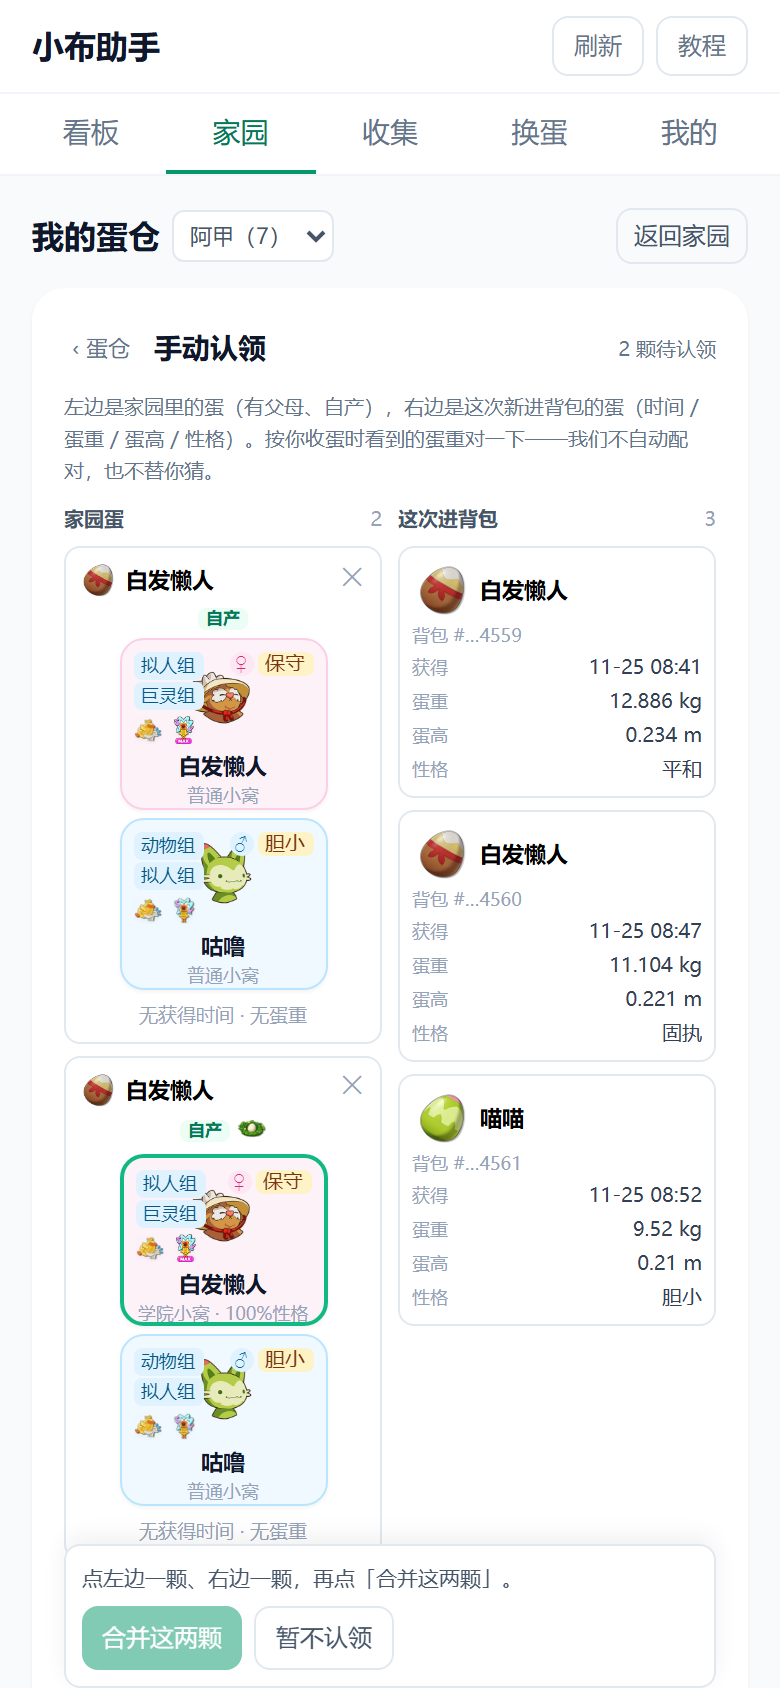
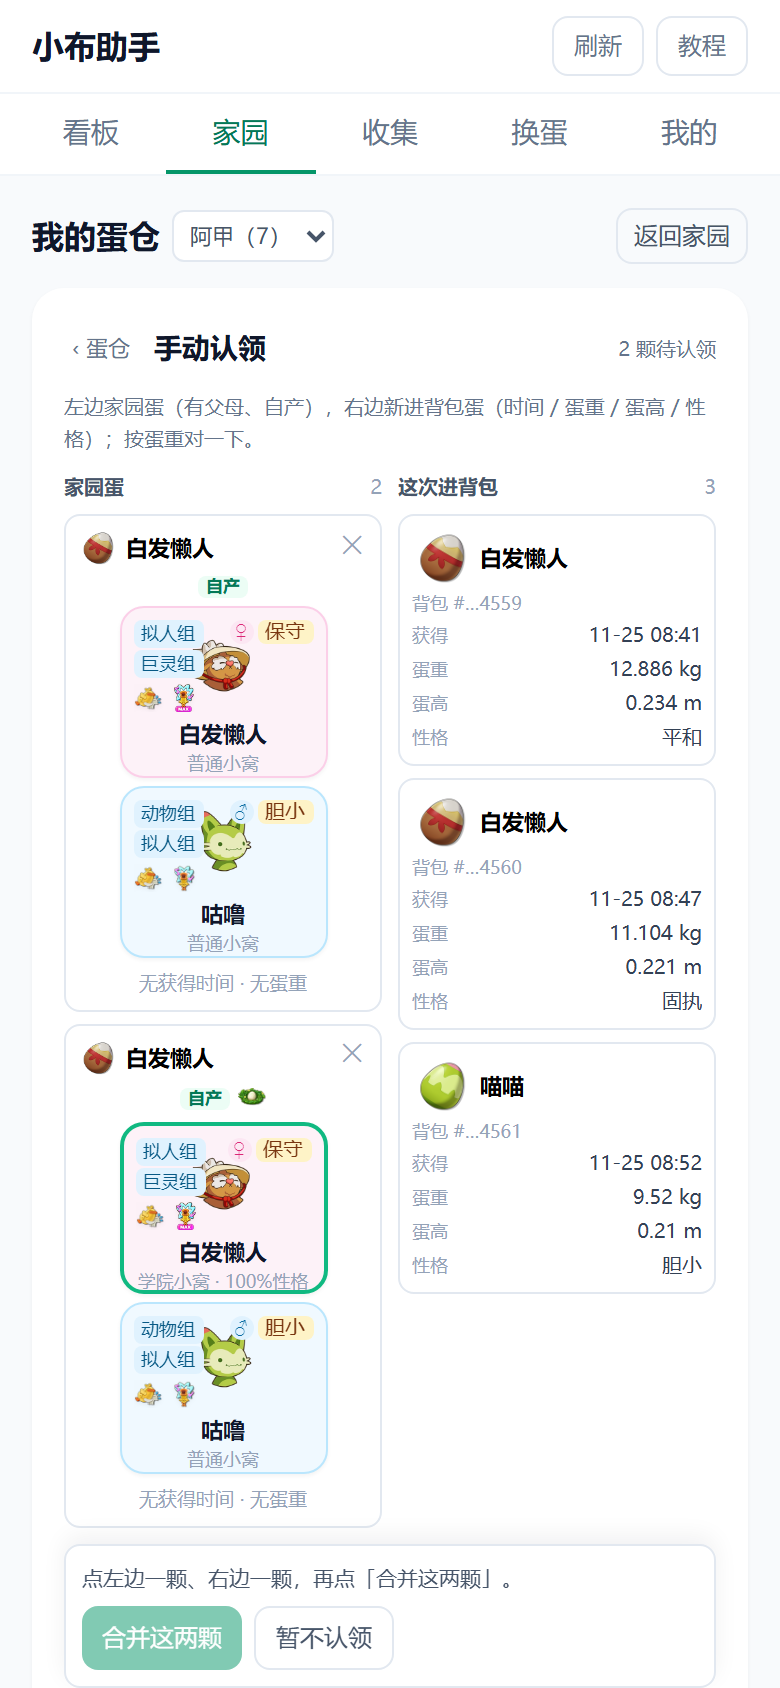
fix(egg): 认领页右列按物种过滤（不同物种不显示），左列补底部留白
- 选中左卡后右列只留 eggGameId 相同的背包蛋；不同物种不出现，
  去掉灰态与「物种不同，不能合并」红字（2026-11-27 用户纠正）
- 右列过滤为空时显示「这次没有同物种的新蛋」，不白屏
- 左列 pb-20：滚到底时最后一张卡落在 sticky 操作条上方（375/390 实测间距 88px）
- 截图：物种不同禁用 → 只显示同种；新增「没有同种新蛋」一屏（375/390 各 8 屏）
- 测试：EggStockPanel 32（新增「只留同物种」「过滤为空」两条，先红后绿）

diff --git a/docs/preview/F6-待认领-实现预览-2026-11-27.html b/docs/preview/F6-待认领-实现预览-2026-11-27.html
@@ -2904,6 +2904,10 @@ video {
   padding-bottom: 0.5rem;
 }
 
+.pb-20 {
+  padding-bottom: 5rem;
+}
+
 .pb-3 {
   padding-bottom: 0.75rem;
 }
@@ -15803,7 +15807,7 @@ new MutationObserver(function(list){list.forEach(function(m){m.addedNodes.forEac
     const claimableHomes = eggs.filter((e) => e.status !== "transferred" && inGameCharacter(e) && e.claimPending === true);
     const claimCount = claimableHomes.length;
     const claimHome = claimableHomes.find((e) => e.id === claimHomeId) ?? null;
-    const freshBags = eggs.filter((e) => e.status !== "transferred" && inGameCharacter(e) && (e.location ?? "bag") !== "home" && !!e.claimArrivedAt && !e.capturedEggId && (!claimHome?.lastConfirmedAt || (e.claimArrivedAt ?? 0) > claimHome.lastConfirmedAt));
+    const freshBags = eggs.filter((e) => e.status !== "transferred" && inGameCharacter(e) && (e.location ?? "bag") !== "home" && !!e.claimArrivedAt && !e.capturedEggId && (!claimHome || e.eggGameId === claimHome.eggGameId) && (!claimHome?.lastConfirmedAt || (e.claimArrivedAt ?? 0) > claimHome.lastConfirmedAt));
     const claimBag = freshBags.find((e) => e.id === claimBagId) ?? null;
     const sameClaimSpecies = !!claimHome && !!claimBag && claimHome.eggGameId === claimBag.eggGameId;
     const shortId = (id) => id.length > 6 ? "\u2026" + id.slice(-4) : id;
@@ -15979,7 +15983,6 @@ new MutationObserver(function(list){list.forEach(function(m){m.addedNodes.forEac
     };
     const claimBagCard = (b) => {
       const picked = claimBag?.id === b.id;
-      const blocked = !!claimHome && claimHome.eggGameId !== b.eggGameId;
       return /* @__PURE__ */ (0, import_jsx_runtime10.jsxs)(
         "button",
         {
@@ -15987,13 +15990,12 @@ new MutationObserver(function(list){list.forEach(function(m){m.addedNodes.forEac
           "data-testid": "claim-bag-card",
           "data-claim-bag-id": b.id,
           "aria-pressed": picked,
-          disabled: blocked,
           onClick: () => {
             setClaimBagId(b.id);
             setNotice("");
             setError("");
           },
-          className: `relative flex w-full min-w-0 flex-col gap-0.5 rounded-lg border bg-white p-1.5 text-left ${picked ? "border-emerald-500 ring-1 ring-emerald-500" : blocked ? "border-slate-200 opacity-50" : "border-slate-200"}`,
+          className: `relative flex w-full min-w-0 flex-col gap-0.5 rounded-lg border bg-white p-1.5 text-left ${picked ? "border-emerald-500 ring-1 ring-emerald-500" : "border-slate-200"}`,
           children: [
             picked ? /* @__PURE__ */ (0, import_jsx_runtime10.jsx)("span", { className: "absolute right-1 top-1 rounded bg-emerald-600 px-1 py-px text-[8.5px] font-semibold leading-none text-white", children: "\u5DF2\u9009" }) : null,
             /* @__PURE__ */ (0, import_jsx_runtime10.jsxs)("span", { className: "flex min-w-0 items-center gap-1 pr-6", children: [
@@ -16007,8 +16009,7 @@ new MutationObserver(function(list){list.forEach(function(m){m.addedNodes.forEac
             claimRow("\u83B7\u5F97", formatEggObtainedAt(b.obtainedAt) || "\u672A\u91C7\u96C6"),
             claimRow("\u86CB\u91CD", claimWeightText(b)),
             claimRow("\u86CB\u9AD8", formatEggHeight(b.heightCm)),
-            claimRow("\u6027\u683C", eggNatureText(b) || "\u2014"),
-            blocked ? /* @__PURE__ */ (0, import_jsx_runtime10.jsx)("span", { "data-testid": "claim-species-block", className: "text-[9.5px] leading-4 text-rose-500", children: "\u7269\u79CD\u4E0D\u540C\uFF0C\u4E0D\u80FD\u5408\u5E76" }) : null
+            claimRow("\u6027\u683C", eggNatureText(b) || "\u2014")
           ]
         },
         b.id
@@ -16034,7 +16035,7 @@ new MutationObserver(function(list){list.forEach(function(m){m.addedNodes.forEac
           " \u9897\u5F85\u8BA4\u9886"
         ] })
       ] }),
-      /* @__PURE__ */ (0, import_jsx_runtime10.jsx)("p", { className: "text-[10px] leading-4 text-slate-500", children: "\u5DE6\u8FB9\u662F\u5BB6\u56ED\u91CC\u7684\u86CB\uFF08\u6709\u7236\u6BCD\u3001\u81EA\u4EA7\uFF09\uFF0C\u53F3\u8FB9\u662F\u8FD9\u6B21\u65B0\u8FDB\u80CC\u5305\u7684\u86CB\uFF08\u65F6\u95F4 / \u86CB\u91CD / \u86CB\u9AD8 / \u6027\u683C\uFF09\u3002\u6309\u4F60\u6536\u86CB\u65F6\u770B\u5230\u7684\u86CB\u91CD\u5BF9\u4E00\u4E0B\u2014\u2014\u6211\u4EEC\u4E0D\u81EA\u52A8\u914D\u5BF9\uFF0C\u4E5F\u4E0D\u66FF\u4F60\u731C\u3002" }),
+      /* @__PURE__ */ (0, import_jsx_runtime10.jsx)("p", { className: "text-[10px] leading-4 text-slate-500", children: "\u5DE6\u8FB9\u5BB6\u56ED\u86CB\uFF08\u6709\u7236\u6BCD\u3001\u81EA\u4EA7\uFF09\uFF0C\u53F3\u8FB9\u65B0\u8FDB\u80CC\u5305\u86CB\uFF08\u65F6\u95F4 / \u86CB\u91CD / \u86CB\u9AD8 / \u6027\u683C\uFF09\uFF1B\u6309\u86CB\u91CD\u5BF9\u4E00\u4E0B\u3002" }),
       error ? /* @__PURE__ */ (0, import_jsx_runtime10.jsx)("p", { role: "alert", className: "text-xs text-rose-600", children: error }) : null,
       notice ? /* @__PURE__ */ (0, import_jsx_runtime10.jsx)("p", { role: "status", className: "text-xs text-emerald-700", children: notice }) : null,
       !claimCount ? /* @__PURE__ */ (0, import_jsx_runtime10.jsxs)("div", { className: "py-8 text-center", "data-testid": "claim-done", children: [
@@ -16042,7 +16043,7 @@ new MutationObserver(function(list){list.forEach(function(m){m.addedNodes.forEac
         /* @__PURE__ */ (0, import_jsx_runtime10.jsx)("p", { className: "mt-1 text-[11px] text-slate-500", children: "\u86CB\u4ED3\u91CC\u4E0D\u4F1A\u518D\u6709\u5F85\u8BA4\u9886\u7684\u5361\uFF1B\u8BA4\u9519\u53EF\u4EE5\u53BB\u90A3\u5F20\u5361\u7684\u8BE6\u60C5\u91CC\u300C\u62C6\u5F00\u8BA4\u9886\u300D\u3002" }),
         /* @__PURE__ */ (0, import_jsx_runtime10.jsx)(Button, { size: "sm", className: "mt-3", onClick: closeClaim, children: "\u8FD4\u56DE\u86CB\u4ED3" })
       ] }) : /* @__PURE__ */ (0, import_jsx_runtime10.jsxs)("div", { className: "grid grid-cols-2 items-start gap-2", "data-testid": "claim-columns", children: [
-        /* @__PURE__ */ (0, import_jsx_runtime10.jsxs)("section", { className: "flex min-w-0 flex-col gap-1.5", "data-testid": "claim-home-column", children: [
+        /* @__PURE__ */ (0, import_jsx_runtime10.jsxs)("section", { className: "flex min-w-0 flex-col gap-1.5 pb-20", "data-testid": "claim-home-column", children: [
           /* @__PURE__ */ (0, import_jsx_runtime10.jsxs)("div", { className: "flex items-center justify-between text-[10px] font-semibold text-slate-600", children: [
             /* @__PURE__ */ (0, import_jsx_runtime10.jsx)("span", { children: "\u5BB6\u56ED\u86CB" }),
             /* @__PURE__ */ (0, import_jsx_runtime10.jsx)("em", { className: "font-normal not-italic text-slate-400", children: claimCount })
@@ -16055,12 +16056,11 @@ new MutationObserver(function(list){list.forEach(function(m){m.addedNodes.forEac
             /* @__PURE__ */ (0, import_jsx_runtime10.jsx)("em", { className: "font-normal not-italic text-slate-400", children: freshBags.length })
           ] }),
           freshBags.map(claimBagCard),
-          !freshBags.length ? /* @__PURE__ */ (0, import_jsx_runtime10.jsx)("p", { className: "rounded-lg border border-dashed border-slate-200 p-2 text-[10px] text-slate-400", children: "\u8FD9\u6B21\u6CA1\u6709\u65B0\u8FDB\u80CC\u5305\u7684\u86CB" }) : null
+          !freshBags.length ? /* @__PURE__ */ (0, import_jsx_runtime10.jsx)("p", { className: "rounded-lg border border-dashed border-slate-200 p-2 text-[10px] text-slate-400", children: claimHome ? "\u8FD9\u6B21\u6CA1\u6709\u540C\u7269\u79CD\u7684\u65B0\u86CB" : "\u8FD9\u6B21\u6CA1\u6709\u65B0\u8FDB\u80CC\u5305\u7684\u86CB" }) : null
         ] })
       ] }),
       claimCount ? /* @__PURE__ */ (0, import_jsx_runtime10.jsxs)("div", { className: "sticky bottom-0 flex flex-col gap-1.5 rounded-lg border border-slate-200 bg-white p-2 shadow-[0_-4px_12px_rgba(15,23,42,0.06)]", "data-testid": "claim-foot", children: [
         /* @__PURE__ */ (0, import_jsx_runtime10.jsx)("p", { "data-testid": "claim-selection", className: "text-[10.5px] leading-4 text-slate-600", children: selectionText }),
-        claimHome && claimBag && !sameClaimSpecies ? /* @__PURE__ */ (0, import_jsx_runtime10.jsx)("p", { className: "text-[10px] leading-4 text-rose-500", children: "\u7269\u79CD\u4E0D\u540C\uFF0C\u4E0D\u80FD\u5408\u5E76\u3002" }) : null,
         /* @__PURE__ */ (0, import_jsx_runtime10.jsxs)("div", { className: "flex gap-1.5", children: [
           /* @__PURE__ */ (0, import_jsx_runtime10.jsx)(Button, { size: "sm", disabled: !sameClaimSpecies, busy, onClick: mergeClaim, children: "\u5408\u5E76\u8FD9\u4E24\u9897" }),
           /* @__PURE__ */ (0, import_jsx_runtime10.jsx)(Button, { size: "sm", variant: "secondary", onClick: closeClaim, children: "\u6682\u4E0D\u8BA4\u9886" })
@@ -16413,7 +16413,7 @@ new MutationObserver(function(list){list.forEach(function(m){m.addedNodes.forEac
   function App() {
     const params = new URLSearchParams(window.location.search);
     const screen = params.get("screen") ?? "stock";
-    const eggs = screen === "after" ? [MERGED, ...FRESH.filter((egg) => egg.id !== "bag-4559"), ...NORMAL] : screen === "detail" || screen === "split" ? [MERGED, ...FRESH, ...NORMAL] : [...PENDING, ...FRESH, ...NORMAL];
+    const eggs = screen === "after" ? [MERGED, ...FRESH.filter((egg) => egg.id !== "bag-4559"), ...NORMAL] : screen === "detail" || screen === "split" ? [MERGED, ...FRESH, ...NORMAL] : screen === "empty" ? [PENDING[0], FRESH[2], ...NORMAL] : [...PENDING, ...FRESH, ...NORMAL];
     return /* @__PURE__ */ (0, import_jsx_runtime11.jsx)(StockScreen, { children: /* @__PURE__ */ (0, import_jsx_runtime11.jsx)(EggStockPanel, { eggs, species, busy: false, mutate: noop }) });
   }
   (0, import_client.createRoot)(document.getElementById("root")).render(/* @__PURE__ */ (0, import_jsx_runtime11.jsx)(App, {}));

diff --git a/src/ui/plan/EggStockPanel.tsx b/src/ui/plan/EggStockPanel.tsx
@@ -162,11 +162,12 @@ export function EggStockPanel({ eggs, species, busy, mutate, collapsibleFilterRa
   const claimHome=claimableHomes.find(e=>e.id===claimHomeId)??null;
   /**
    * 认领页右列 = 本次新进背包的蛋（`claimArrivedAt` 只由「第一次进背包」的那次采集写入）。
-   * 选中左边某一颗时再收窄到「它在离开家园之后才进包」的蛋：更早进包的不可能是它。
+   * 选中左边某一颗时再收窄到「**同物种**、且在它离开家园之后才进包」的蛋：
+   * 不同物种根本不可能是同一颗，直接不显示（2026-11-27 用户纠正，不做灰态/红字）。
    * 已链接到家园行的背包行（`capturedEggId`）不再当候选。
    */
   const freshBags=eggs.filter(e=>e.status!=='transferred'&&inGameCharacter(e)&&(e.location??'bag')!=='home'&&
-    !!e.claimArrivedAt&&!e.capturedEggId&&
+    !!e.claimArrivedAt&&!e.capturedEggId&&(!claimHome||e.eggGameId===claimHome.eggGameId)&&
     (!claimHome?.lastConfirmedAt||(e.claimArrivedAt??0)>claimHome.lastConfirmedAt));
   const claimBag=freshBags.find(e=>e.id===claimBagId)??null;
   const sameClaimSpecies=!!claimHome&&!!claimBag&&claimHome.eggGameId===claimBag.eggGameId;
@@ -324,14 +325,13 @@ export function EggStockPanel({ eggs, species, busy, mutate, collapsibleFilterRa
       </span>
     </div>;
   };
-  /** 认领页右卡：这次新进背包的那颗（时间 / 蛋重 / 蛋高 / 性格）。物种不同直接禁用。 */
+  /** 认领页右卡：这次新进背包的那颗（时间 / 蛋重 / 蛋高 / 性格）。不同物种不会出现在这一列。 */
   const claimBagCard=(b:WorkflowEgg)=>{
     const picked=claimBag?.id===b.id;
-    const blocked=!!claimHome&&claimHome.eggGameId!==b.eggGameId;
     return <button key={b.id} type="button" data-testid="claim-bag-card" data-claim-bag-id={b.id}
-      aria-pressed={picked} disabled={blocked}
+      aria-pressed={picked}
       onClick={()=>{setClaimBagId(b.id);setNotice('');setError('');}}
-      className={`relative flex w-full min-w-0 flex-col gap-0.5 rounded-lg border bg-white p-1.5 text-left ${picked?'border-emerald-500 ring-1 ring-emerald-500':blocked?'border-slate-200 opacity-50':'border-slate-200'}`}>
+      className={`relative flex w-full min-w-0 flex-col gap-0.5 rounded-lg border bg-white p-1.5 text-left ${picked?'border-emerald-500 ring-1 ring-emerald-500':'border-slate-200'}`}>
       {picked?<span className="absolute right-1 top-1 rounded bg-emerald-600 px-1 py-px text-[8.5px] font-semibold leading-none text-white">已选</span>:null}
       <span className="flex min-w-0 items-center gap-1 pr-6">
         <EggArt eggGameId={b.eggGameId} name={name(b.eggGameId)} size={30}/>
@@ -342,7 +342,6 @@ export function EggStockPanel({ eggs, species, busy, mutate, collapsibleFilterRa
       {claimRow('蛋重',claimWeightText(b))}
       {claimRow('蛋高',formatEggHeight(b.heightCm))}
       {claimRow('性格',eggNatureText(b)||'—')}
-      {blocked?<span data-testid="claim-species-block" className="text-[9.5px] leading-4 text-rose-500">物种不同，不能合并</span>:null}
     </button>;
   };
   const claimBanner=claimCount>0?<div data-testid="claim-banner" className="flex items-center gap-2 rounded-lg border border-amber-200 bg-amber-50 px-2.5 py-1.5">
@@ -369,19 +368,19 @@ export function EggStockPanel({ eggs, species, busy, mutate, collapsibleFilterRa
           <Button size="sm" className="mt-3" onClick={closeClaim}>返回蛋仓</Button>
         </div>
       : <div className="grid grid-cols-2 items-start gap-2" data-testid="claim-columns">
-          <section className="flex min-w-0 flex-col gap-1.5" data-testid="claim-home-column">
+          {/* 底部操作条是 sticky 的：左列留出一屏底部空间，最后一张卡能完整滚到操作条上方。 */}
+          <section className="flex min-w-0 flex-col gap-1.5 pb-20" data-testid="claim-home-column">
             <div className="flex items-center justify-between text-[10px] font-semibold text-slate-600"><span>家园蛋</span><em className="font-normal not-italic text-slate-400">{claimCount}</em></div>
             {claimableHomes.map(claimHomeCard)}
           </section>
           <section className="flex min-w-0 flex-col gap-1.5" data-testid="claim-bag-column">
             <div className="flex items-center justify-between text-[10px] font-semibold text-slate-600"><span>这次进背包</span><em className="font-normal not-italic text-slate-400">{freshBags.length}</em></div>
             {freshBags.map(claimBagCard)}
-            {!freshBags.length?<p className="rounded-lg border border-dashed border-slate-200 p-2 text-[10px] text-slate-400">这次没有新进背包的蛋</p>:null}
+            {!freshBags.length?<p className="rounded-lg border border-dashed border-slate-200 p-2 text-[10px] text-slate-400">{claimHome?'这次没有同物种的新蛋':'这次没有新进背包的蛋'}</p>:null}
           </section>
         </div>}
     {claimCount?<div className="sticky bottom-0 flex flex-col gap-1.5 rounded-lg border border-slate-200 bg-white p-2 shadow-[0_-4px_12px_rgba(15,23,42,0.06)]" data-testid="claim-foot">
       <p data-testid="claim-selection" className="text-[10.5px] leading-4 text-slate-600">{selectionText}</p>
-      {claimHome&&claimBag&&!sameClaimSpecies?<p className="text-[10px] leading-4 text-rose-500">物种不同，不能合并。</p>:null}
       <div className="flex gap-1.5">
         <Button size="sm" disabled={!sameClaimSpecies} busy={busy} onClick={mergeClaim}>合并这两颗</Button>
         <Button size="sm" variant="secondary" onClick={closeClaim}>暂不认领</Button>

diff --git a/src/ui/plan/EggStockPanel.test.tsx b/src/ui/plan/EggStockPanel.test.tsx
@@ -358,7 +358,7 @@ test('竖屏不出现右侧折叠栏，搜索与条件仍在蛋卡上方', () =>
 /**
  * 口径来源：`docs/方案-同种多颗手动认领-2026-11-25.md` + 2026-11-27 用户拍板 5 条。
  * 关键约束：入口是蛋仓顶部琥珀横幅；待认领卡留在网格里；认领页左右各点一张；
- * 物种不同直接禁用；不作废横幅永远消不掉；合并后可拆开（两张都不删）。
+ * 物种不同直接不显示；不作废横幅永远消不掉；合并后可拆开（两张都不删）。
  */
 const claimSpecies = [
   { gameId: 3227, key: 'p', name: '菊花梨', number: '1', eggGroups: [2] },
@@ -450,16 +450,30 @@ test('左一张 + 右一张同种 → 「合并这两颗」走 claim-egg', async
   await waitFor(() => expect(mutate).toHaveBeenCalledWith({ type: 'claim-egg', id: 'home1', capturedEggId: 'bag1' }));
 });
 
-test('物种不同的背包蛋直接禁用：选不了，合并按钮不可点', () => {
+test('选中家园蛋后右列只留同物种：不同物种的背包蛋不显示', () => {
+  const different = freshBag({ id: 'bag2', eggGameId: 3436 });
+  renderStock([pendingClaim(), pendingClaim({ id: 'home2' }), different, freshBag({ id: 'bag1' })], vi.fn(), 'uid:1');
+  enterClaim();
+  // 未选左卡：本次新进的两颗都列出来（选择还没收窄）。
+  expect(screen.getAllByTestId('claim-bag-card').map((card) => card.getAttribute('data-claim-bag-id')).sort())
+    .toEqual(['bag1', 'bag2']);
+  fireEvent.click(screen.getAllByTestId('claim-home-card')[0]);
+  // 选中「白发懒人」后，右列只剩同物种；柴渣虫那颗直接不出现，也没有灰态 / 红字。
+  expect(screen.getAllByTestId('claim-bag-card').map((card) => card.getAttribute('data-claim-bag-id')))
+    .toEqual(['bag1']);
+  expect(screen.queryByTestId('claim-species-block')).toBeNull();
+  expect(screen.queryByText('物种不同，不能合并')).toBeNull();
+});
+
+test('右列过滤成空时给「这次没有同物种的新蛋」，不白屏', () => {
   const different = freshBag({ id: 'bag2', eggGameId: 3436 });
   renderStock([pendingClaim(), different], vi.fn(), 'uid:1');
   enterClaim();
-  const bagCard = screen.getByTestId('claim-bag-card');
-  expect(bagCard).toBeDisabled();
-  expect(within(bagCard).getByTestId('claim-species-block')).toHaveTextContent('物种不同');
+  // 只有 1 颗待认领 → 自动选中它，右列按物种收窄为空。
+  expect(screen.getByTestId('claim-home-card')).toHaveAttribute('aria-pressed', 'true');
+  expect(screen.queryAllByTestId('claim-bag-card')).toHaveLength(0);
+  expect(screen.getByTestId('claim-bag-column')).toHaveTextContent('这次没有同物种的新蛋');
   expect(screen.getByRole('button', { name: '合并这两颗' })).toBeDisabled();
-  fireEvent.click(bagCard);
-  expect(bagCard).toHaveAttribute('aria-pressed', 'false');
 });
 
 test('「✕ 这颗不在了」把该行标记为不再等待，走 claim-dismiss', async () => {

diff --git a/tools/preview/f6/main.tsx b/tools/preview/f6/main.tsx
@@ -3,14 +3,15 @@
  *   node tools/preview/f6/build.mjs && node tools/preview/f6/shot.mjs
  *   → docs/preview/F6-<宽>-*.png
  *
- * 七屏（每屏 375 / 390 各一张）：
+ * 八屏（每屏 375 / 390 各一张）：
  * - `stock`   蛋仓顶部琥珀横幅 + 网格里的虚线「待认领」卡；
  * - `claim`   手动认领 · 未选（左家蛋 / 右本次进背包）；
  * - `pick`    左一张 + 右一张同种 → 「合并这两颗」可点；
- * - `blocked` 物种不同的背包蛋直接禁用；
+ * - `same-species` 选中左卡后右列只留同物种（不同物种不显示）；
  * - `detail`  认领合并后的详情：「已与家园蛋 … 认领合并 · 拆开认领」；
  * - `split`   拆开确认；
- * - `after`   认领完：横幅消失，两张卡合成一张。
+ * - `after`   认领完：横幅消失，两张卡合成一张；
+ * - `empty`   右列按物种过滤为空：「这次没有同物种的新蛋」。
  *
  * 只出现在 tools/ 下，不进 `src/`、不参与应用构建。
  */
@@ -119,7 +120,10 @@ function App() {
     ? [MERGED, ...FRESH.filter((egg) => egg.id !== 'bag-4559'), ...NORMAL]
     : screen === 'detail' || screen === 'split'
       ? [MERGED, ...FRESH, ...NORMAL]
-      : [...PENDING, ...FRESH, ...NORMAL];
+      : screen === 'empty'
+        // 待认领的家园蛋只有 3049；本次新进背包的只有 3001 → 右列按物种过滤后为空。
+        ? [PENDING[0], FRESH[2], ...NORMAL]
+        : [...PENDING, ...FRESH, ...NORMAL];
   return (
     <StockScreen>
       <EggStockPanel eggs={eggs} species={species} busy={false} mutate={noop} />
